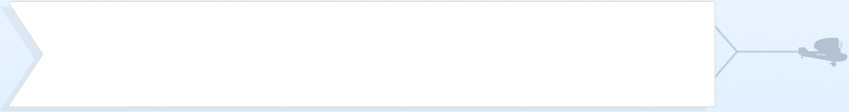
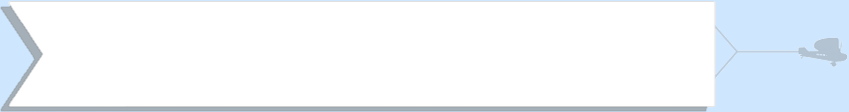
Re-edited plane header, adjusted facebook invite button, adjusted invite page styling + header typo.

Changed region(s): [[0.0, 0.0, 1.0, 1.0], [0.8575, 0.4286, 0.98, 0.4554], [0.98, 0.5357, 1.0, 0.5625]]

diff --git a/app/stylesheets/accounts/_facebook_invite.sass b/app/stylesheets/accounts/_facebook_invite.sass
@@ -19,6 +19,7 @@ body.application.accounts.facebook_invite
     font-weight: bold
     font-size: 40px
     text-align: center
+    margin-left: -5px
   h2
     color: #71879a
     line-height: 1.2
@@ -32,7 +33,7 @@ body.application.accounts.facebook_invite
     font-size: 23px
     text-shadow: #631e1c 2px 2px 0px
     text-align: left
-    padding: 0px 0 15px 0
+    margin-bottom: 5px
     
   h4
     color: #000000
@@ -70,6 +71,7 @@ body.application.accounts.facebook_invite
     li
       margin-left: 2px
       display: block
+      padding: 0px 0 15px 0
     #custom-tweet-button
       height: 41px
       width: 356px
@@ -80,49 +82,49 @@ body.application.accounts.facebook_invite
       width: 378px
     #step_one
       @extend #step
-      height: 135px      
+      height: 130px      
     #step_two
       @extend #step
-      height: 170px
+      height: 167px
     #step_three
       @extend #step
-      height: 352px
+      height: 423px
     #step_four
       @extend #step
-      height: 360px
+      height: 363px
     #step_five
       @extend #step
-      height: 140px
+      height: 150px
   label
     display: none
-  input[type="email"], 
+  #invite_email
     text-align: left
     vertical-align: top
-    height: 30px
-    padding: 4px 8px 4px
+    height: 95px
+    padding: 6px 10px 6px
     font-size: 16px
-    width: 360px
+    width: 356px
     border: 1px solid #982c28
     +border-radius(5px)
     +box-shadow(#1B0A1C, 1px, 1px, 6px, 0px, inset)
     +serif
-  textarea
+  #invite_body
     vertical-align: top
     text-align: left
-    height: 120px
+    height: 110px
     width: 356px
     padding: 8px 10px 8px
     font-size: 15px
     border: 1px solid #982c28
     +border-radius(5px)
-    +box-shadow(#545454, 1px, 1px, 6px, 0px, inset)
+    +box-shadow(#1B0A1C, 1px, 1px, 6px, 0px, inset)
     +serif
-    margin-top: 20px
-    margin-bottom: 10px
+    margin-top: 18px
+    margin-bottom: 3px
   input[type="submit"]
     width: 356px
     height: 41px
-    margin: 15px auto 15px auto
+    margin: 5px auto 15px auto
     font-family: "Rockwell",Georgia,Times,serif
   #doctable
     vertical-align:middle
